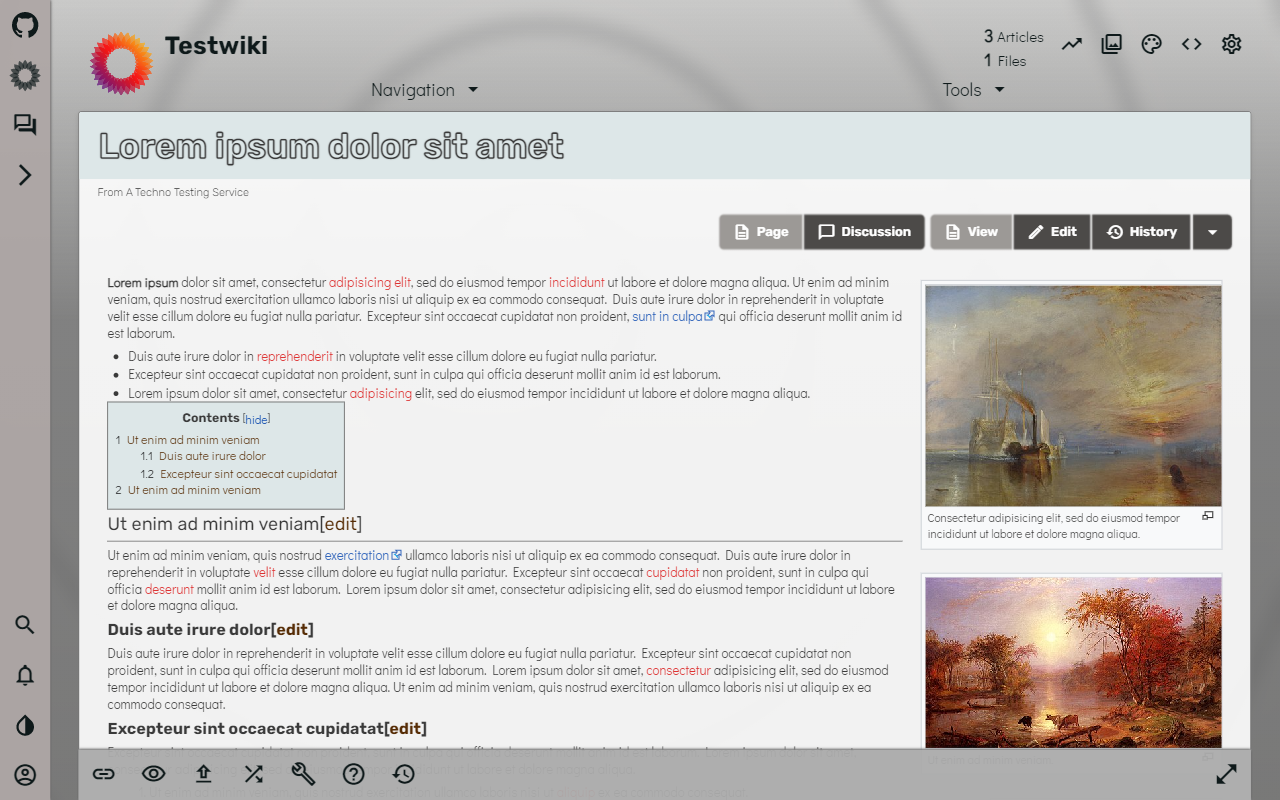
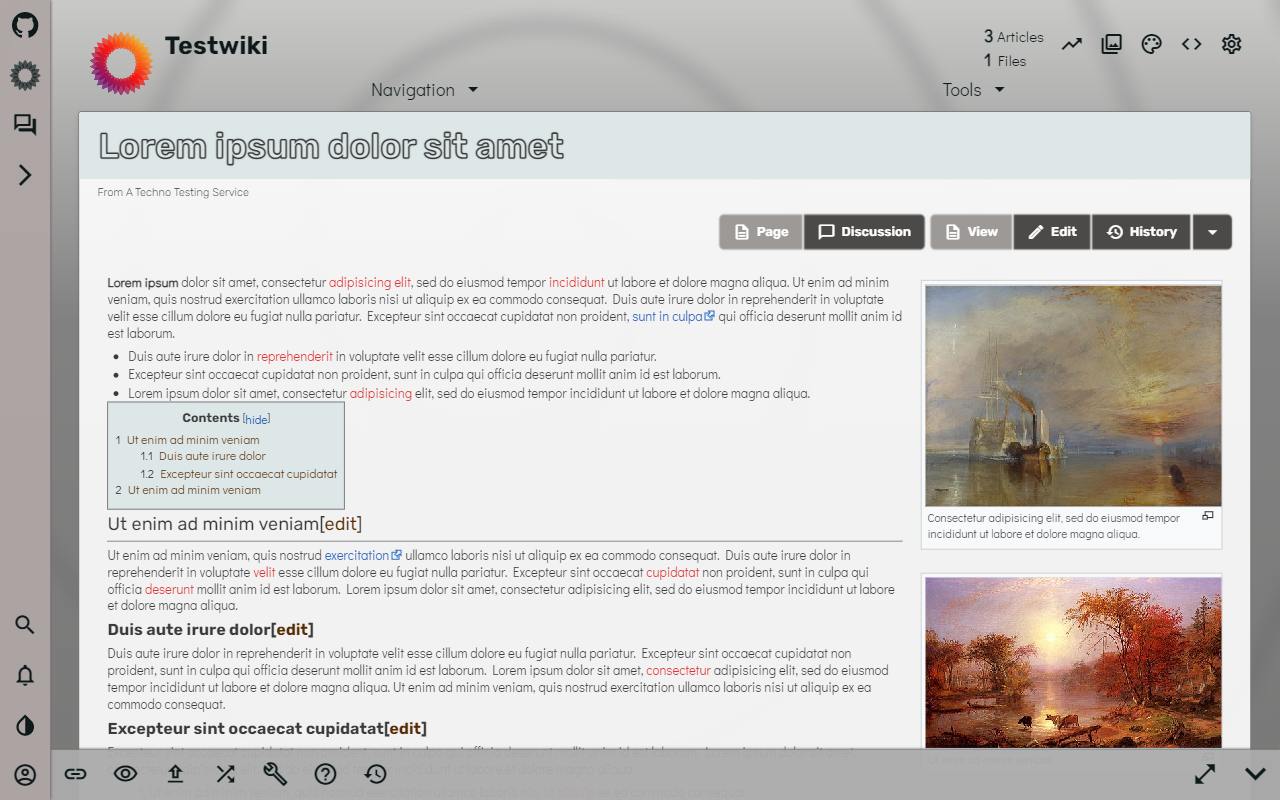
Add files via upload

Changed region(s): [[0.0312, 0.9375, 0.3125, 1.0], [0.9375, 0.9375, 1.0, 1.0]]

diff --git a/resources/Evelution.css b/resources/Evelution.css
@@ -551,6 +551,21 @@ body[dark-mode="true"] .mpisto-global-navigation {
 	height:var(--sticky-nav-size);
 	flex-direction:row;
 	z-index:99;
+	width:100%;
+	transform-origin:bottom;
+}
+
+main[toolbar="true"] .mpisto-personal-links.col-toolbar,
+main[toolbar="false"] .mpisto-personal-links.full-toolbar  {
+	transform:scaleY(0%);
+}
+
+.mpisto-personal-links.col-toolbar {
+	width:var(--sticky-nav-size);
+	bottom:var(--sticky-nav-size);
+	left:100%;
+	margin-top:calc(0px - var(--sticky-nav-size));
+	bottom:0;
 }
 
 .mpisto-personal-links:hover  {
@@ -583,8 +598,8 @@ body[dark-mode="true"] .mpisto-global-navigation {
 	top:auto;
 }
 
-.mpisto-personal-links .link.toggle-size[cpe-tooltip]:after {
-	right:0;
+.mpisto-personal-links .link.bar-switch[cpe-tooltip]:after {
+	right:6px;
 }
 
 /* Old Global Nav
@@ -719,7 +734,7 @@ position:relative;
   margin-top:5px;
 }
 
-.mpisto-content, .top-gap, .mpisto-personal-links, .top-gap .cpe-banner-notification__container#floatingbanner  {
+.mpisto-content, .top-gap, .top-gap .cpe-banner-notification__container#floatingbanner  {
 	width:calc(1240px - var(--global-nav-size) - var(--scrollbar-width));
 	margin-left:auto;
 	margin-right:auto;
@@ -727,7 +742,7 @@ position:relative;
 }
 
 /* Wide */
-	main[wide="true"] .mpisto-content,  main[wide="true"] .top-gap, main[wide="true"] .mpisto-personal-links, .top-gap main[wide="true"] .cpe-banner-notification__container#floatingbanner  {
+	main[wide="true"] .mpisto-content,  main[wide="true"] .top-gap, .top-gap main[wide="true"] .cpe-banner-notification__container#floatingbanner  {
 		width:calc(100% - 40px);
 	}
 	
@@ -1448,12 +1463,8 @@ z-index:0;
 }
 
 /* RTL CSS */
-.rtl .mpisto-global-sidebar .link[cpe-tooltip]:before {
+.rtl .mpisto-global-navigation .link[cpe-tooltip]:before {
 	transform:rotate(90deg)
-}
-
-.rtl .mpisto-personal-links .link[cpe-tooltip]:before {
-	transform:rotate(-90deg);
 }
 
 .rtl .mpisto-global-sidebar .explore-menu .link .cpe-icon {

diff --git a/resources/Breakpoints.css b/resources/Breakpoints.css
@@ -176,7 +176,7 @@ font-size:18px;
 
 
 
-.mpisto-content, .mpisto-personal-links, footer.mpisto-footer .mpisto-wrapper, .mpisto-editors-content, .mpisto-options-content, .top-gap, .top-gap .cpe-banner-notification__container#floatingbanner  {
+.mpisto-content, footer.mpisto-footer .mpisto-wrapper, .mpisto-editors-content, .mpisto-options-content, .top-gap, .top-gap .cpe-banner-notification__container#floatingbanner  {
   width:calc(665px - var(--global-nav-size) - var(--scrollbar-width));
 }
 
@@ -227,7 +227,7 @@ padding-right:10px;
 }
 
 
-.mpisto-content, .mpisto-personal-links, header.mpisto-navbar .mpisto-navbar-wrapper, footer.mpisto-footer .mpisto-wrapper, .mpisto-editors-content, .mpisto-options-content, .main .page-wrapper, .top-gap, .top-gap .cpe-banner-notification__container#floatingbanner  /*.lightbox */ {
+.mpisto-content, header.mpisto-navbar .mpisto-navbar-wrapper, footer.mpisto-footer .mpisto-wrapper, .mpisto-editors-content, .mpisto-options-content, .main .page-wrapper, .top-gap, .top-gap .cpe-banner-notification__container#floatingbanner  /*.lightbox */ {
 width:calc(940px - var(--global-nav-size) - var(--scrollbar-width));
 }
 

diff --git a/resources/Headroom.css b/resources/Headroom.css
@@ -1,6 +1,6 @@
 /* Headroom */
 .headroom .mpisto-global-sidebar {
-	transition:/*-webkit-backdrop-filter 400ms ease, backdrop-filter 400ms ease,*/ transform 400ms ease, opacity 400ms ease, background-color 400ms ease, width 150ms ease;
+	transition:/*-webkit-backdrop-filter 400ms ease, backdrop-filter 400ms ease,*/ transform 400ms ease, opacity 400ms ease, background-color 400ms ease, width 150ms ease, transform 400ms ease;
 	/*will-change:color, background-color, opacity;*/
 }
 

diff --git a/resources/OOUI.css b/resources/OOUI.css
@@ -14,6 +14,12 @@
 .mw-prefs-buttons {
 	background-color:var(--content-bg);
 	border-top-color:var(--content-border);
+	bottom:var(--sticky-nav-size);
+	transition:bottom 400ms ease;
+}
+
+main[toolbar="false"] .mw-prefs-buttons {
+	bottom:0;
 }
 
 body .mw-notification {
